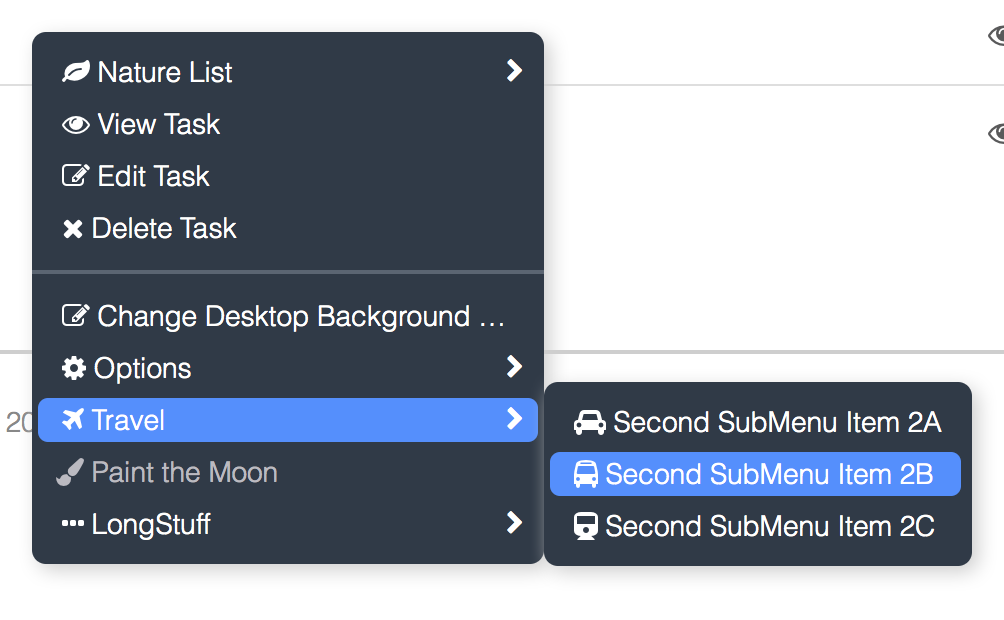
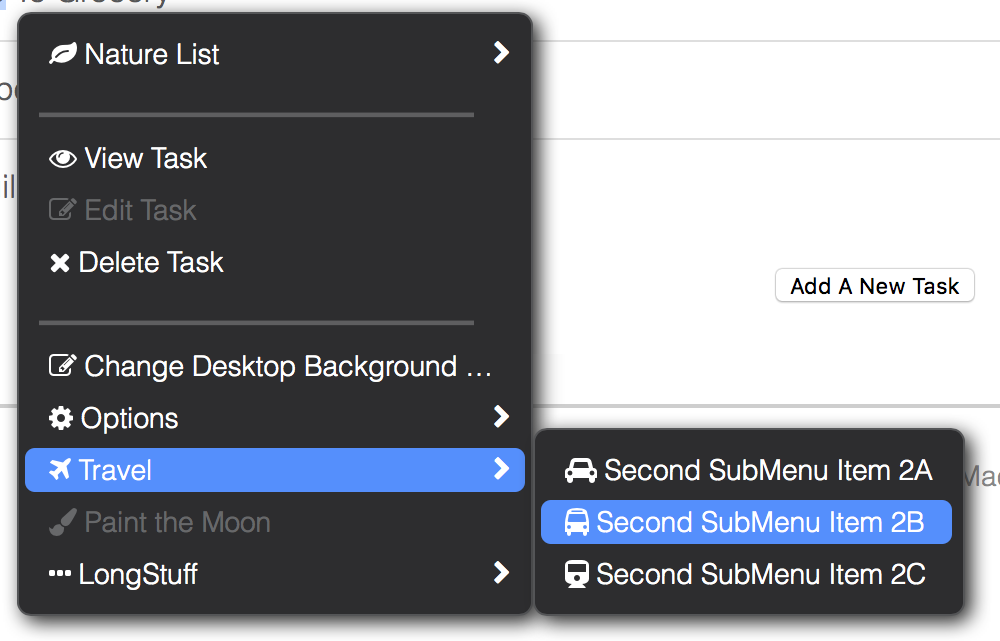
Monterey dark theme update

diff --git a/index3.html b/index3.html
@@ -75,21 +75,21 @@
                 <a href="#" class="context-submenu__link sm-link-icon" data-action="sm0"><span class="itemicon fa fa-fw fa-leaf"></span><span class="itemlabel">&nbsp;Nature List</span><span id="b0" class="speed fa fa-circle" data-count="3">&nbsp;</span></a>
             </li>
             <li class="context-menu__item">
-                <a href="#" class="context-menu__link context-menu__link-disabled" data-action="separator" style="cursor:default;"><span class="itemicon fa fa-window-minimize" style="transform: scale(60, 1); font-size: 8px;"></span><span class="itemlabel"></span><span class="speed">&nbsp;</span></a>
+                <a href="#" class="context-menu__link context-menu__link-disabled separator" data-action="separator" style="cursor:default;"><span class="itemicon fa fa-window-minimize" style="transform: scale(100, 1); font-size: 8px;"></span><span class="itemlabel"></span><span class="speed">&nbsp;</span></a>
             </li>
             <li class="context-menu__item">
-                <a href="#" class="context-menu__link" data-action="Cut"><span class="itemicon fa fa-fw fa-themeisle"></span><span class="itemlabel">&nbsp;Cut</span><span class="speed">&#x2318;X</span></a>
+                <a href="#" class="context-menu__link linkover" data-action="Cut"><span class="itemicon fa fa-fw fa-themeisle"></span><span class="itemlabel">&nbsp;Cut</span><span class="speed">&#x2318;X</span></a>
             </li>
             <li class="context-menu__item">
-                <a href="#" class="context-menu__link" data-action="Copy"><span class="itemicon fa fa-fw fa-themeisle"></span><span class="itemlabel">&nbsp;Copy</span><span class="speed">&#x2318;C</span></a>
+                <a href="#" class="context-menu__link linkover" data-action="Copy"><span class="itemicon fa fa-fw fa-themeisle"></span><span class="itemlabel">&nbsp;Copy</span><span class="speed">&#x2318;C</span></a>
             </li>
             <li class="context-menu__item">
-                <a href="#" class="context-menu__link" data-action="Paste"><span class="itemicon fa fa-fw fa-themeisle"></span><span class="itemlabel">&nbsp;Paste</span><span class="speed">&#x2318;V</span></a>
+                <a href="#" class="context-menu__link linkover" data-action="Paste"><span class="itemicon fa fa-fw fa-themeisle"></span><span class="itemlabel">&nbsp;Paste</span><span class="speed">&#x2318;V</span></a>
             </li>
-                <a href="#" class="context-menu__link context-menu__link-disabled" data-action="separator" style="cursor:default;"><span class="itemicon fa fa-window-minimize" style="transform: scale(60, 1); font-size: 8px;"></span><span class="itemlabel"></span><span class="speed">&nbsp;</span></a>
+                <a href="#" class="context-menu__link context-menu__link-disabled separator" data-action="separator" style="cursor:default;"><span class="itemicon fa fa-window-minimize" style="transform: scale(100, 1); font-size: 8px;"></span><span class="itemlabel"></span><span class="speed">&nbsp;</span></a>
             </li>
             <li class="context-menu__item">
-                <a href="#" class="context-menu__link" data-action="Print"><span class="itemicon fa fa-fw fa-themeisle"></span><span class="itemlabel">&nbsp;Print</span><span class="speed">&#x2318;P</span></a>
+                <a href="#" class="context-menu__link linkover" data-action="Print"><span class="itemicon fa fa-fw fa-themeisle"></span><span class="itemlabel">&nbsp;Print</span><span class="speed">&#x2318;P</span></a>
             </li>
             <li class="context-menu__item">
                 <a href="#" class="context-submenu__link sm-link-icon" data-action="sm7"><span class="itemicon fa fa-fw fa-gear"></span><span class="itemlabel">&nbsp;Options</span><span class="speed">&nbsp;</span></a>
@@ -109,20 +109,20 @@
         <nav id="sm0" class="context-submenu" data-id="0">
             <ul class="context-submenu__items">
                 <li class="context-submenu__item">
-                    <a href="#" class="context-menu__link" data-action="Apple"><span class="itemicon fa fa-fw fa-apple"></span><span class="itemlabel">&nbsp;Fruit</span><span class="speed">&nbsp;</span></a>
+                    <a href="#" class="context-menu__link linkover" data-action="Apple"><span class="itemicon fa fa-fw fa-apple"></span><span class="itemlabel">&nbsp;Fruit</span><span class="speed">&nbsp;</span></a>
                 </li>
                 <li class="context-submenu__item">
-                    <a href="#" class="context-menu__link" data-action="Paw"><span class="itemicon fa fa-fw fa-paw"></span><span class="itemlabel">&nbsp;Paw</span><span class="speed">&nbsp;</span></a>
+                    <a href="#" class="context-menu__link linkover" data-action="Paw"><span class="itemicon fa fa-fw fa-paw"></span><span class="itemlabel">&nbsp;Paw</span><span class="speed">&nbsp;</span></a>
                 </li>
                 <li class="context-submenu__item">
-                    <a href="#" class="context-menu__link" data-action="Tree"><span class="itemicon fa fa-fw fa-tree"></span><span class="itemlabel">&nbsp;Tree</span><span class="speed">&nbsp;</span></a>
+                    <a href="#" class="context-menu__link linkover" data-action="Tree"><span class="itemicon fa fa-fw fa-tree"></span><span class="itemlabel">&nbsp;Tree</span><span class="speed">&nbsp;</span></a>
                 </li>
             </ul>
         </nav>
         <nav id="sm7" class="context-submenu" data-id="7">
             <ul class="context-submenu__items">
                 <li class="context-submenu__item">
-                    <a href="#" class="context-menu__link" data-action="SMA"><span class="itemicon fa fa-fw fa-check"></span><span class="itemlabel">&nbsp;SubMenu Item A</span><span class="speed">&nbsp;</span></a>
+                    <a href="#" class="context-menu__link linkover" data-action="SMA"><span class="itemicon fa fa-fw fa-check"></span><span class="itemlabel">&nbsp;SubMenu Item A</span><span class="speed">&nbsp;</span></a>
                 </li>
                 <li class="context-submenu__item">
                     <a href="#" class="context-menu__link context-menu__link-disabled" data-action="SMB" style="cursor:default;"><span class="itemicon fa fa-fw fa-minus"></span><span class="itemlabel">&nbsp;SubMenu Item B</span><span class="speed">&nbsp;</span></a>
@@ -135,35 +135,35 @@
         <nav id="sm8" class="context-submenu" data-id="8">
             <ul class="context-submenu__items">
                 <li class="context-submenu__item">
-                    <a href="#" class="context-menu__link" data-action="2SMA2"><span class="itemicon fa fa-fw fa-car"></span><span class="itemlabel">&nbsp;Second SubMenu Item 2A</span><span class="speed">&nbsp;</span></a>
+                    <a href="#" class="context-menu__link linkover" data-action="2SMA2"><span class="itemicon fa fa-fw fa-car"></span><span class="itemlabel">&nbsp;Second SubMenu Item 2A</span><span class="speed">&nbsp;</span></a>
                 </li>
                 <li class="context-submenu__item">
-                    <a href="#" class="context-menu__link" data-action="2SMB2"><span class="itemicon fa fa-fw fa-bus"></span><span class="itemlabel">&nbsp;Second SubMenu Item 2B</span><span class="speed">&nbsp;</span></a>
+                    <a href="#" class="context-menu__link linkover" data-action="2SMB2"><span class="itemicon fa fa-fw fa-bus"></span><span class="itemlabel">&nbsp;Second SubMenu Item 2B</span><span class="speed">&nbsp;</span></a>
                 </li>
                 <li class="context-submenu__item">
-                    <a href="#" class="context-menu__link" data-action="2SMC2"><span class="itemicon fa fa-fw fa-train"></span><span class="itemlabel">&nbsp;Second SubMenu Item 2C</span><span class="speed">&nbsp;</span></a>
+                    <a href="#" class="context-menu__link linkover" data-action="2SMC2"><span class="itemicon fa fa-fw fa-train"></span><span class="itemlabel">&nbsp;Second SubMenu Item 2C</span><span class="speed">&nbsp;</span></a>
                 </li>
             </ul>
         </nav>
         <nav id="sm10" class="context-submenu" data-id="10">
             <ul class="context-submenu__items">
                 <li class="context-submenu__item">
-                    <a href="#" class="context-menu__link" data-action="TOGGLEICON"><span class="itemicon fa fa-fw fa-chain"></span><span class="itemlabel">&nbsp;Click Piggy</span><span class="speed">&nbsp;</span></a>
+                    <a href="#" class="context-menu__link linkover" data-action="TOGGLEICON"><span class="itemicon fa fa-fw fa-chain"></span><span class="itemlabel">&nbsp;Click Piggy</span><span class="speed">&nbsp;</span></a>
                 </li>
                 <li class="context-submenu__item">
-                    <a href="#" class="context-menu__link" data-action="Might break"><span class="itemicon fa fa-fw fa-coffee"></span><span class="itemlabel">&nbsp;This line is a joy to behold</span><span class="speed">&nbsp;</span></a>
+                    <a href="#" class="context-menu__link linkover" data-action="Might break"><span class="itemicon fa fa-fw fa-coffee"></span><span class="itemlabel">&nbsp;This line is a joy to behold</span><span class="speed">&nbsp;</span></a>
                 </li>
                 <li class="context-submenu__item">
-                    <a href="#" class="context-menu__link" data-action="Sure to break"><span class="itemicon fa fa-fw fa-bomb"></span><span class="itemlabel">&nbsp;Here we go again - another big long line to check stuff out, maybe it will work maybe not.</span><span class="speed">&nbsp;</span></a>
+                    <a href="#" class="context-menu__link linkover" data-action="Sure to break"><span class="itemicon fa fa-fw fa-bomb"></span><span class="itemlabel">&nbsp;Here we go again - another big long line to check stuff out, maybe it will work maybe not.</span><span class="speed">&nbsp;</span></a>
                 </li>
                 <li class="context-menu__item">
-                    <a href="#" class="context-menu__link context-menu__link-disabled" data-action="separator" style="cursor:default;"><span class="itemicon fa fa-window-minimize" style="transform: scale(60, 1); font-size: 8px;"></span><span class="itemlabel"></span><span class="speed">&nbsp;</span></a>
+                    <a href="#" class="context-menu__link context-menu__link-disabled separator" data-action="separator" style="cursor:default;"><span class="itemicon fa fa-window-minimize" style="transform: scale(100, 1); font-size: 8px;"></span><span class="itemlabel"></span><span class="speed">&nbsp;</span></a>
                 </li>
                 <li class="context-submenu__item">
-                    <a href="#" class="context-menu__link" data-action="goFolder"><span class="itemicon fa fa-fw fa-themeisle"></span><span class="itemlabel">&nbsp;Go to Folder ...</span><span class="speed">&#x21e7;&#x2318;G</span></a>
+                    <a href="#" class="context-menu__link linkover" data-action="goFolder"><span class="itemicon fa fa-fw fa-themeisle"></span><span class="itemlabel">&nbsp;Go to Folder ...</span><span class="speed">&#x21e7;&#x2318;G</span></a>
                 </li>
                 <li class="context-submenu__item">
-                    <a href="#" class="context-menu__link" data-action="newTab"><span class="itemicon fa fa-fw fa-themeisle"></span><span class="itemlabel">&nbsp;New TAB</span><span class="speed">&#x2318;T</span></a>
+                    <a href="#" class="context-menu__link linkover" data-action="newTab"><span class="itemicon fa fa-fw fa-themeisle"></span><span class="itemlabel">&nbsp;New TAB</span><span class="speed">&#x2318;T</span></a>
                 </li>
             </ul>
         </nav>

diff --git a/index2.html b/index2.html
@@ -75,7 +75,7 @@
                 <a href="#" class="context-submenu__link sm-link-icon" data-action="sm0"><span class="fa fa-leaf"></span><span class="itemlabel">&nbsp;Nature List</span><span class="speed">&nbsp;</span></a>
             </li>
             <li class="context-menu__item">
-                <a href="#" class="context-menu__link context-menu__link-disabled" data-action="separator" style="cursor:default;"><span class="fa fa-window-minimize" style="transform: scale(60, 1); font-size: 8px;"></span><span class="speed">&nbsp;</span></a>
+                <a href="#" class="context-menu__link context-menu__link-disabled separator" data-action="separator" style="cursor:default;"><span class="fa fa-window-minimize" style="transform: scale(100, 1); font-size: 8px;"></span><span class="speed">&nbsp;</span></a>
             </li>
             <li class="context-menu__item">
                 <a href="#" class="context-menu__link" data-action="View"><span class="fa fa-eye"></span><span class="itemlabel">&nbsp;View Task</span><span class="speed">&nbsp;</span></a>
@@ -86,7 +86,7 @@
             <li class="context-menu__item">
                 <a href="#" class="context-menu__link" data-action="Delete"><span class="fa fa-times"></span><span class="itemlabel">&nbsp;Delete Task</span><span class="speed">&nbsp;</span></a>
             </li>
-                <a href="#" class="context-menu__link context-menu__link-disabled" data-action="separator" style="cursor:default;"><span class="fa fa-window-minimize" style="transform: scale(60, 1); font-size: 8px;"></span><span class="speed">&nbsp;</span></a>
+                <a href="#" class="context-menu__link context-menu__link-disabled separator" data-action="separator" style="cursor:default;"><span class="fa fa-window-minimize" style="transform: scale(100, 1); font-size: 8px;"></span><span class="speed">&nbsp;</span></a>
             </li>
             <li class="context-menu__item">
                 <a href="#" class="context-menu__link" data-action="Edit"><span class="fa fa-edit"></span><span class="itemlabel">&nbsp;Change Desktop Background Wallpaper</span><span class="speed">&nbsp;</span></a>

diff --git a/theme-12-dark.css b/theme-12-dark.css
@@ -5,7 +5,7 @@ a.context-menu__link {
 }
 
 .fa-window-minimize {
-    color:  #566573;
+    color:  rgb(93,94,96);
 }
 
 #context-menu a.sm-link-icon::after{
@@ -19,8 +19,8 @@ a.context-menu__link {
 /* context menu */
 
 .context-menu {
-  background-color: #273746;
-  border: solid 0px #1c2833;
+  background-color: rgb(40,41,43);
+  border: solid 1px rgb(83,84,86);
   box-shadow: 3px 3px 10px #1e1e1e;
 }
 
@@ -48,15 +48,15 @@ a.context-menu__link {
 }
 
 .context-menu__link-disabled {
-  color: #bdbbc3;
+  color: rgb(103,104,106);
   margin-left: 3px;
   margin-top: 4px;
   margin-bottom: 4px;
 }
 
 .context-menu__link-disabled:hover {
-  color: #bdbbc3;
-  background-color: #273746;
+  color: rgb(103,104,106);
+  background-color: rgb(40,41,43);
   width:  100%;
   margin-left: 3px;
   margin-top: 4px;
@@ -66,8 +66,8 @@ a.context-menu__link {
 /* context-submenu */
 
 .context-submenu {
-  background-color: #273746;
-  border: solid 0px #1c2833;
+  background-color: rgb(40,41,43);
+  border: solid 1px rgb(83,84,86);
   box-shadow: 3px 3px 10px #1e1e1e;
 }
 
@@ -100,6 +100,26 @@ a.context-menu__link {
   margin-top: 4px;
   margin-bottom: 4px;
   margin-right: 3px;
+}
+
+.speed {
+  color: rgb(103,104,106);
+}
+
+.linkover:hover .speed {
+  color: #fff;
+}
+
+.separator {
+  margin-left: 10px;
+  margin-right: 10px;
+  width: 85% !important;
+}
+
+.separator:hover {
+  margin-left: 10px;
+  margin-right: 10px;
+  width: 85%;
 }
 
 

diff --git a/index.html b/index.html
@@ -84,7 +84,7 @@
                 <a href="#" class="context-menu__link" data-action="Delete"><span class="fa fa-times"></span><span class="itemlabel">&nbsp;Delete Task</span><span class="speed">&nbsp;</span></a>
             </li>
             <li class="context-menu__item">
-                <a href="#" class="context-menu__link context-menu__link-disabled" data-action="separator" style="cursor:default;"><span class="fa fa-window-minimize" style="transform: scale(60, 1); font-size: 8px;"></span><span class="speed">&nbsp;</span></a>
+                <a href="#" class="context-menu__link context-menu__link-disabled separator" data-action="separator" style="cursor:default;"><span class="fa fa-window-minimize" style="transform: scale(100, 1); font-size: 8px;"></span><span class="speed">&nbsp;</span></a>
             </li>
             <li class="context-menu__item">
                 <a href="#" class="context-menu__link" data-action="Edit"><span class="fa fa-edit"></span><span class="itemlabel">&nbsp;Change Desktop Background Wallpaper</span><span class="speed">&nbsp;</span></a>

diff --git a/style.css b/style.css
@@ -288,7 +288,7 @@ li .context-menu {
   position: absolute;
   right: 0px; /* -0.75em; */
   top: -1px; /* -0.75em; */
-  left: 15px;
+  left: 12px;
   padding: 0em;
   border-radius: 10em;
   color: black;
@@ -304,7 +304,7 @@ li .context-menu {
   position: absolute;
   right: 5px; /* -0.75em; */
   top: -2px; /* -0.75em; */
-  left: 0px;
+  left: -3px;
   content: attr(data-count);
   padding: .2em;
   border-radius: 10em;
